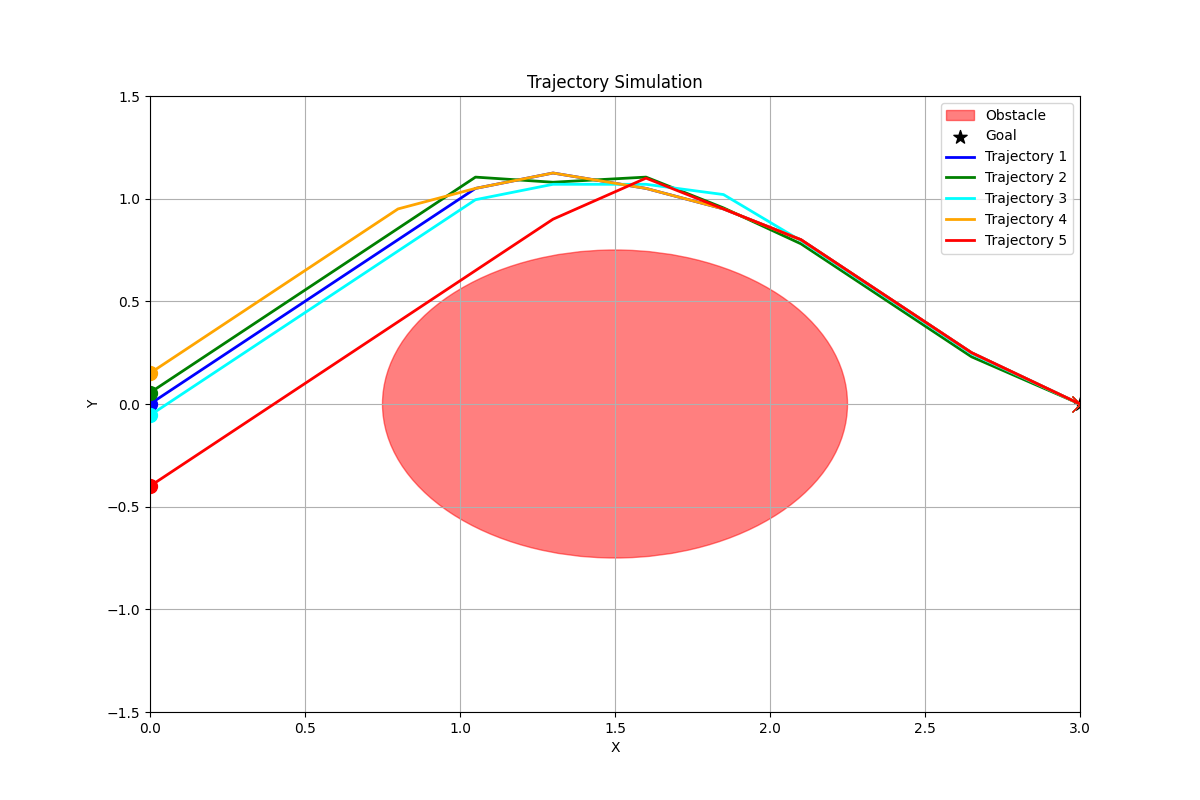
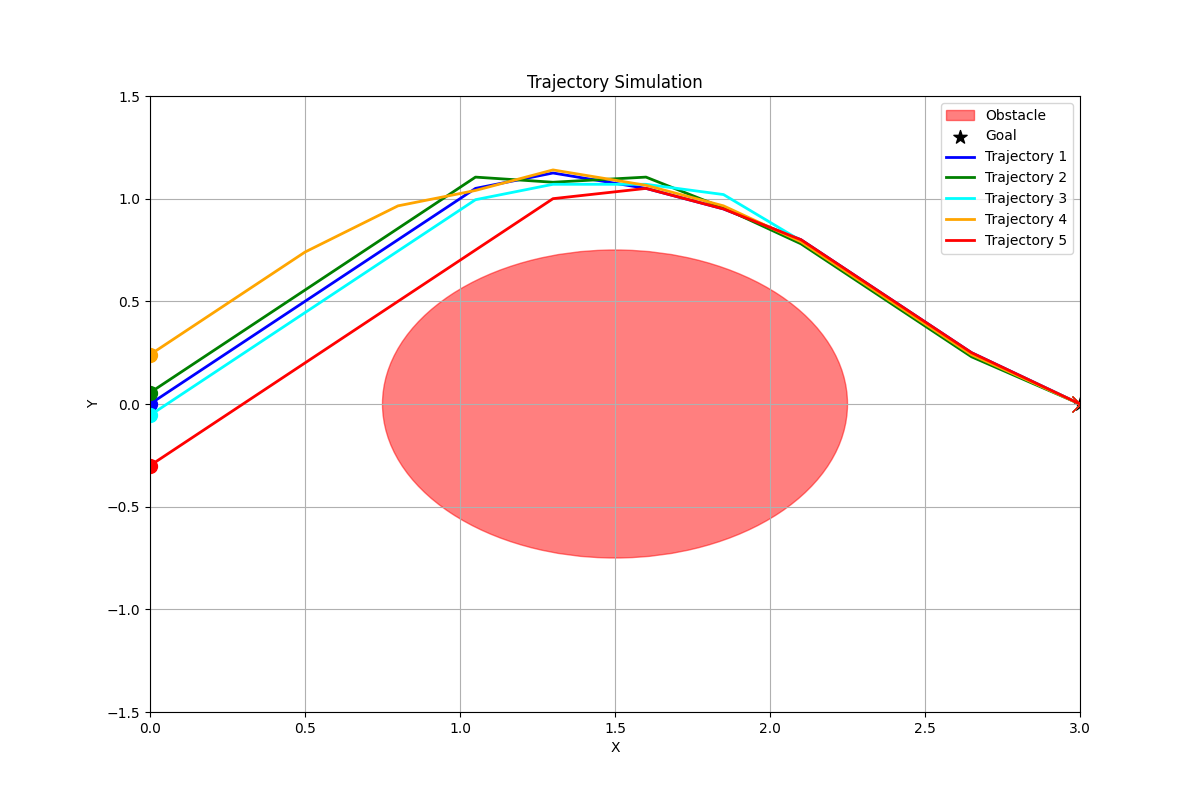
pushing all changes

diff --git a/src/rl_policy/server.py b/src/rl_policy/server.py
@@ -158,11 +158,7 @@ class DroneService(obstacle_avoidance_grpc.ObstacleAvoidanceServiceBase):
         request: oa_proto.TrajectoryRequest = await stream.recv_message()
         print(f"Received trajectory request: {request}")
 
-<<<<<<< HEAD
         # TODO: implement get trajectory loop here
-=======
-        # todo: implement get trajectory loop here
->>>>>>> de3f6c0 (added getTrajectory endpoint)
         # obs = state_to_observation_OA(state)
         # action_array, _ = self.hybrid_agent.predict(obs)
         # if isinstance(action_array, np.ndarray):

diff --git a/src/rl_policy/getTrajectorySim.py b/src/rl_policy/getTrajectorySim.py
@@ -41,8 +41,8 @@ async def simulate_client(num_waypoints, duration_s):
         np.array([0.0, 0.0], dtype=np.float32),
         np.array([0.0, 0.055], dtype=np.float32),
         np.array([0.0, -0.055], dtype=np.float32),
-        np.array([0.0, 0.15], dtype=np.float32),
-        np.array([0.0, -0.4], dtype=np.float32),
+        np.array([0.0, 0.24], dtype=np.float32),
+        np.array([0.0, -0.3], dtype=np.float32),
     ]
 
     async with Channel(HOST, PORT) as channel:
